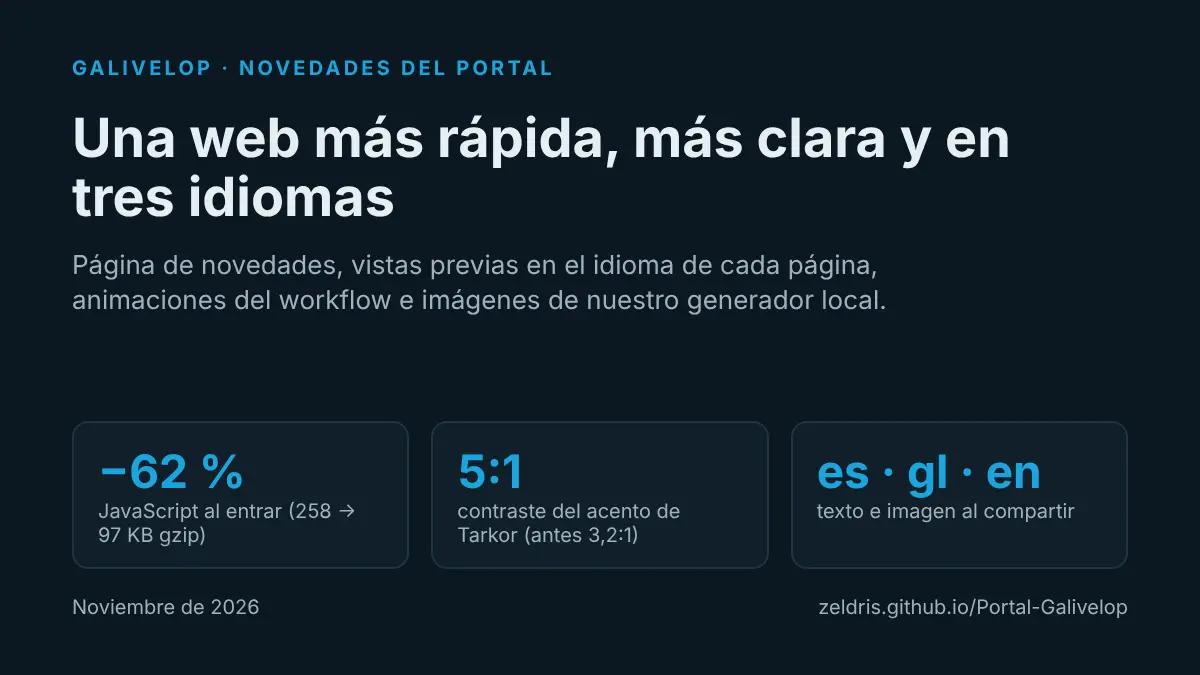
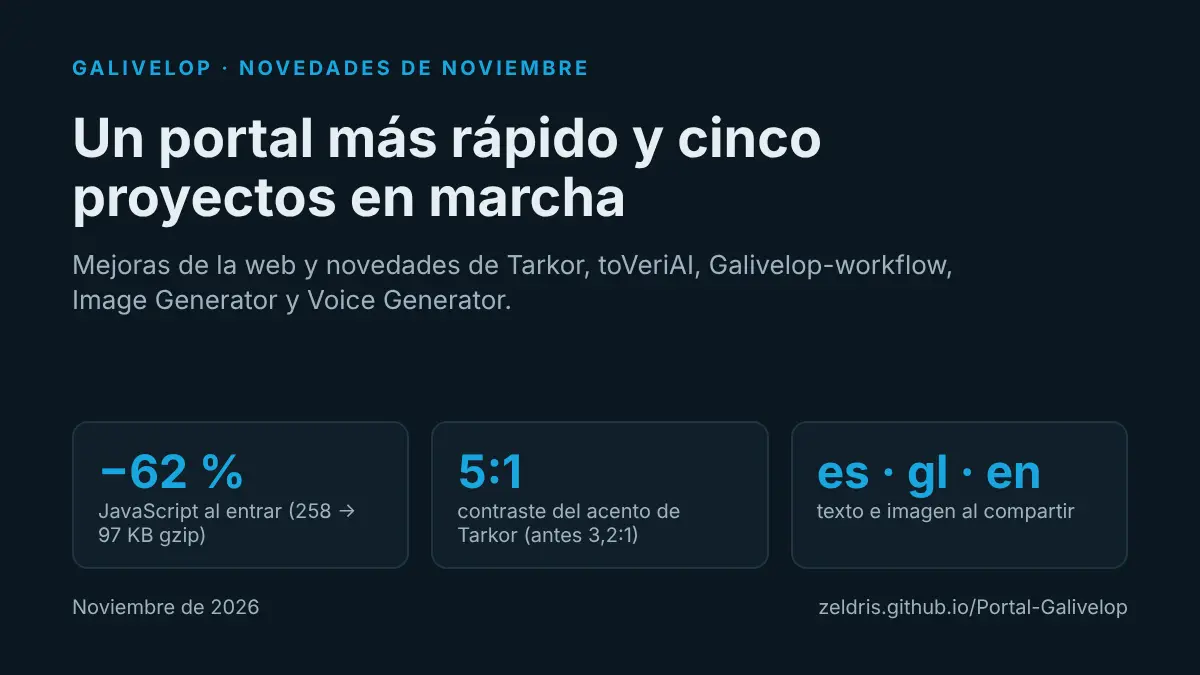
docs(media): la pieza de LinkedIn suma las novedades de cada proyecto
La publicación cuenta ahora las novedades de Tarkor, Galivelop-workflow
0.6.0, Image Generator 0.5.0, toVeriAI y Voice Generator, y luego las
mejoras de la web; el enlace va a /novedades/. Tarjeta con titular nuevo
y hechos de cada proyecto en sheet.md, con su fuente.
check.py de la pieza: OK. Sin cambios de código.

Siguiente: la persona publica en LinkedIn y apunta el enlace en sheet.md

Claude-Session: https://claude.ai/code/session_01VdeHmCrjjWWH5wtRhH3LE6

Changed region(s): [[0.0617, 0.1556, 0.8633, 0.3422], [0.0617, 0.3733, 0.8017, 0.4667], [0.37, 0.0622, 0.4933, 0.1244]]

diff --git a/docs/media/2026-11-14/03-novedades-portal/media/source/1-resumen.html b/docs/media/2026-11-14/03-novedades-portal/media/source/1-resumen.html
@@ -27,9 +27,9 @@
 </style>
 </head>
 <body>
-  <div class="brand">Galivelop · Novedades del portal</div>
-  <h1>Una web más rápida, más clara y en tres idiomas</h1>
-  <p class="sub">Página de novedades, vistas previas en el idioma de cada página, animaciones del workflow e imágenes de nuestro generador local.</p>
+  <div class="brand">Galivelop · Novedades de noviembre</div>
+  <h1>Un portal más rápido y cinco proyectos en marcha</h1>
+  <p class="sub">Mejoras de la web y novedades de Tarkor, toVeriAI, Galivelop-workflow, Image Generator y Voice Generator.</p>
   <div class="stats">
     <div class="stat"><b>−62 %</b><span>JavaScript al entrar (258 → 97 KB gzip)</span></div>
     <div class="stat"><b>5:1</b><span>contraste del acento de Tarkor (antes 3,2:1)</span></div>

diff --git a/docs/media/2026-11-14/03-novedades-portal/sheet.md b/docs/media/2026-11-14/03-novedades-portal/sheet.md
@@ -11,7 +11,7 @@ Languages: es
 
 ## What is told
 
-- **In one sentence (for who uses it):** El portal de Galivelop estrena página de novedades, carga más rápido, se comparte en el idioma de cada página, explica el workflow con animaciones y usa imágenes de nuestro generador local.
+- **In one sentence (for who uses it):** Las novedades de cada proyecto del taller y, además, el portal de Galivelop estrena página de novedades, carga más rápido, se comparte en el idioma de cada página, explica el workflow con animaciones y usa imágenes de nuestro generador local.
 - **In one sentence (technical):** Resumen de lo publicado en `main` del 2026-11-05 al 2026-11-14: /novedades, carga por ruta (JS inicial de 258 a 97 KB gzip), Open Graph por idioma, animaciones en la ficha del workflow, auditoría de contraste, imágenes del generador y fichas al día.
 - **Status:** todo publicado en `main` (76340d5, 2026-11-14).
 
@@ -27,6 +27,15 @@ Languages: es
 | La ficha de Galivelop-workflow tiene tres animaciones paso a paso (Trabajar, Relevo, Camino a main) en es, gl y en | commit 9853767 |
 | Las imágenes e iconos de la web salen de nuestro generador de imágenes, que corre en local | commit 386fd62; `docs/media/2026-10-27/01-piloto-generador/ficha.md` |
 | Fichas al día: Galivelop-workflow 0.6.0 (2554 pruebas), Galivelop Image Generator 0.5.0 con prompt negativo (1587 tests), novedades de Tarkor y toVeriAI | commit c67238a |
+| Tarkor: generador de mapas propio que construye cada región por capas; viajes entre regiones contando horas y jornadas; 25 zonas al día con el canon (hito 0.4) | `src/data/proyectos/tarkor.json`, novedad 2026-11-10 |
+| Tarkor: ronda de pruebas jugando con arreglos (el Ayuntamiento se puede reparar, compañeros en el panel de combate, el juego cuenta mejor cada ronda de combate) | `src/data/proyectos/tarkor.json`, novedad 2026-11-11 |
+| Tarkor: el instalador deja elegir qué datos del juego se borran al desinstalar, borrar solo la IA y volver a elegir perfil, y trae la pantalla «Licencias y avisos» | `src/data/proyectos/tarkor.json`, novedad 2026-11-12 |
+| Galivelop-workflow 0.6.0: apunta los tokens por sesión y modelo, recomienda modelo y esfuerzo para cada tarea, revisa por bloques las ramas largas y corre el check en paralelo | `src/data/proyectos/galivelop-workflow.json`, novedad 2026-11-13 |
+| Image Generator 0.5.0: exportar a WebP, ICO y BMP con recorte, pausar y reanudar la cola, interfaz rediseñada que se adapta a pantallas estrechas | `src/data/proyectos/galivelop-image-generator.json`, novedad 2026-11-13 |
+| Image Generator: prompt negativo en la línea de órdenes, la API y la interfaz | `src/data/proyectos/galivelop-image-generator.json`, novedad 2026-11-14 |
+| Image Generator 0.4.0: el código pasa a ser abierto con licencia MIT | `src/data/proyectos/galivelop-image-generator.json`, novedad 2026-11-05 |
+| toVeriAI: trabajo de fondo en el servidor para que aguante mejor con pocos recursos, y herramientas al día con correcciones de seguridad | `src/data/proyectos/toveriai.json`, novedades 2026-11-09 y 2026-11-14 |
+| Galivelop Voice Generator (próximamente): voces con IA local; 2 de 8 fases, la siguiente el motor real de voz | `src/data/proximamente.json` |
 | Todo está en `main`, publicado en https://zeldris.github.io/Portal-Galivelop/ | `docs/handoff.md` (En main, 76340d5) |
 | El repositorio de Galivelop-workflow es público | `docs/media/2026-11-05/01-workflow-en-general/linkedin.md` (pieza publicada) |
 
@@ -34,8 +43,8 @@ Languages: es
 
 | Image | Alt text | Channels |
 |---|---|---|
-| `media/1-resumen.webp` | es: Tarjeta «Novedades del portal»: una web más rápida, más clara y en tres idiomas; −62 % de JavaScript al entrar, contraste 5:1 y vista previa en es, gl y en | reserva (X, web) |
-| `media/1-resumen.png` | es: Tarjeta «Novedades del portal»: una web más rápida, más clara y en tres idiomas; −62 % de JavaScript al entrar, contraste 5:1 y vista previa en es, gl y en | linkedin |
+| `media/1-resumen.webp` | es: Tarjeta «Novedades de noviembre»: un portal más rápido y cinco proyectos en marcha; −62 % de JavaScript al entrar, contraste 5:1 y vista previa en es, gl y en | reserva (X, web) |
+| `media/1-resumen.png` | es: Tarjeta «Novedades de noviembre»: un portal más rápido y cinco proyectos en marcha; −62 % de JavaScript al entrar, contraste 5:1 y vista previa en es, gl y en | linkedin |
 | `media/2-iconos-inicio.png` | es: Iconos del inicio del portal, hechos con nuestro generador de imágenes local | linkedin |
 | `media/3-animacion-relevo.png` | es: Animación «Relevo» de la ficha de Galivelop-workflow: una sesión deja el trabajo a la siguiente | linkedin |
 

diff --git a/docs/media/2026-11-14/03-novedades-portal/linkedin.md b/docs/media/2026-11-14/03-novedades-portal/linkedin.md
@@ -6,36 +6,41 @@
 
 ## es
 
-La web de Galivelop carga hoy un 62 % menos de JavaScript al entrar, y no es lo único que ha cambiado.
-Repaso de lo que hemos publicado en el portal estos días:
+Dos semanas en el taller Galivelop: un mapa nuevo para Tarkor, dos versiones nuevas de nuestras herramientas y una web que carga un 62 % menos de JavaScript.
+Este es el resumen de todo lo que hemos movido:
 
-📰 Todo el taller en una página
-Nueva sección de Novedades: lo último de cada proyecto y del muro en un solo sitio, con filtro por proyecto.
+🛠 En los proyectos
 
-⚡ Más rápida
-Cada página se carga solo cuando se visita. El JavaScript inicial pasa de 258 a 97 KB (gzip).
+🗺 Tarkor
+Ya tiene su propio generador de mapas, que construye cada región por capas, y se viaja entre regiones contando horas y jornadas. Sigue la ronda de pruebas jugando con más arreglos, y el instalador deja elegir qué datos del juego borrar al desinstalar.
 
-🌍 Se comparte en tu idioma
-Al compartir una página en gallego o en inglés, la vista previa sale con su propia imagen y su texto traducido, no con la versión en castellano.
+🔁 Galivelop-workflow 0.6.0
+Mide: apunta los tokens por sesión y modelo, recomienda modelo y esfuerzo para cada tarea, revisa por bloques las ramas largas y corre el check en paralelo.
 
-♿ Más legible
-Una auditoría de accesibilidad subió el contraste del acento de Tarkor de 3,2:1 a 5:1, medido de nuevo con Playwright.
+🎨 Galivelop Image Generator 0.5.0
+Exporta a WebP, ICO y BMP, la cola se puede pausar y reanudar, la interfaz se adapta a pantallas estrechas y acepta prompt negativo. Su código ya es abierto (MIT).
 
-🔁 El workflow, paso a paso
-La ficha de Galivelop-workflow explica con tres animaciones (Trabajar, Relevo y Camino a main) cómo una sesión de IA deja el trabajo a la siguiente sin perder nada.
+🔍 toVeriAI
+Trabajo de fondo: un servidor que aguanta mejor con pocos recursos y herramientas al día con correcciones de seguridad.
 
-🎨 Imágenes hechas en casa
-Iconos, portadas e ilustraciones salen de nuestro generador de imágenes, que corre en local.
+🎙 Galivelop Voice Generator, próximamente
+Voces con IA local: 2 de 8 fases hechas; la siguiente, el motor real de voz.
 
-📌 Fichas al día
-Galivelop-workflow 0.6.0 (2554 pruebas), Galivelop Image Generator 0.5.0 con prompt negativo (1587 tests) y novedades de Tarkor y toVeriAI.
+🌐 En la web
+
+📰 Nueva página de Novedades: lo último de cada proyecto en un solo sitio, con filtro por proyecto.
+⚡ Cada página se carga solo cuando se visita: el JavaScript inicial pasa de 258 a 97 KB (gzip).
+🌍 Al compartir una página en gallego o en inglés, la vista previa sale en ese idioma.
+♿ Una auditoría de accesibilidad subió el contraste del acento de Tarkor de 3,2:1 a 5:1.
+🧭 La ficha del workflow explica con tres animaciones cómo una sesión de IA deja el trabajo a la siguiente.
+🖼 Iconos, portadas e ilustraciones salen de nuestro generador, que corre en local.
 
 Todo publicado y abierto a quien quiera curiosear o colaborar:
-https://zeldris.github.io/Portal-Galivelop/
+https://zeldris.github.io/Portal-Galivelop/novedades/
 
-¿Qué es lo primero que miráis cuando entráis en la web de un proyecto?
+¿Cuál de estos proyectos os gustaría que contáramos más a fondo?
 
-#DesarrolloWeb #Accesibilidad #IA #CódigoAbierto #Galivelop
+#DesarrolloDeSoftware #IA #IALocal #CódigoAbierto #Galivelop
 Image: media/1-resumen.png
 Image: media/2-iconos-inicio.png
 Image: media/3-animacion-relevo.png
